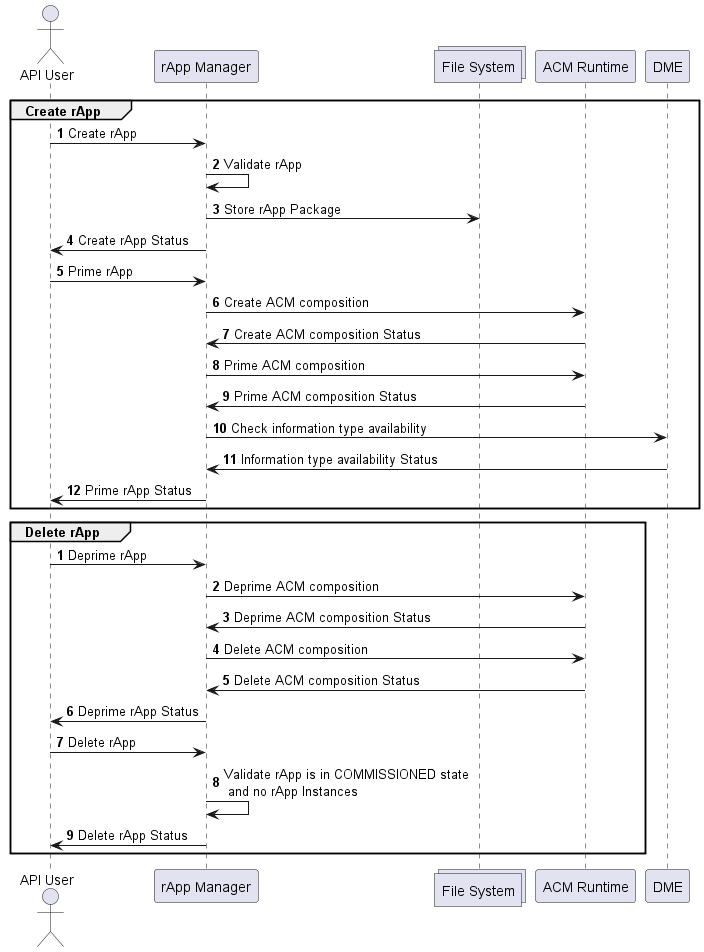
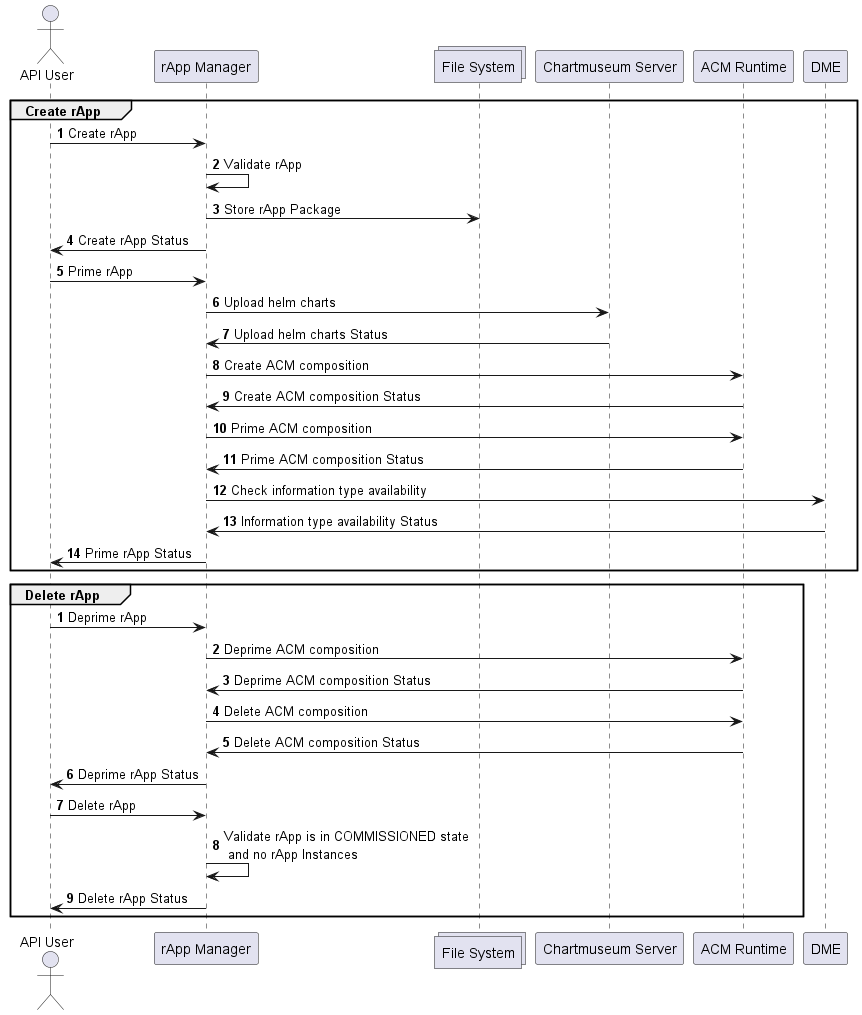
Update the env variable and documentation
Env variable for chart museum and documentation updated.

Issue-ID: NONRTRIC-984

diff --git a/docs/installation-guide.rst b/docs/installation-guide.rst
@@ -1,6 +1,6 @@
 .. This work is licensed under a Creative Commons Attribution 4.0 International License.
 .. http://creativecommons.org/licenses/by/4.0
-.. Copyright (C) 2023 OpenInfra Foundation Europe. All rights reserved.
+.. Copyright (C) 2023-2024 OpenInfra Foundation Europe. All rights reserved.
 
 Installation Guide
 ==================
@@ -37,9 +37,14 @@ In case some of the installation is already setup or not set by the installation
 +--------------------+--------------------------------------------+----------------------------------------------+
 | **Variable Name**  | **Description**                            | **Default Value**                            |
 +--------------------+--------------------------------------------+----------------------------------------------+
-| CHART_REPO_HOST    | Address of the chart repository.           | \http://IP_ADDRESS:8879/charts               |
+| CHART_REPO_GET_URI | URI to get the charts.                     | \http://IP_ADDRESS:8879/charts               |
 |                    |                                            |                                              |
-|                    | It will be used by Kubernetes participant. | IP_ADDRESS: IP of the host in which          |
+|                    | It will be used by Kubernetes participant  | IP_ADDRESS: IP of the host in which          |
+|                    | and sample rApp generator                  | the installation scripts are running.        |
++--------------------+--------------------------------------------+----------------------------------------------+
+| CHART_REPO_POST_URI| URI to upload the charts.                  | \http://IP_ADDRESS:8879/charts/api/charts    |
+|                    |                                            |                                              |
+|                    | It will be used by sample rApp generator   | IP_ADDRESS: IP of the host in which          |
 |                    |                                            | the installation scripts are running.        |
 +--------------------+--------------------------------------------+----------------------------------------------+
 | A1PMS_HOST         | Address of the A1PMS.                      | \http://policymanagementservice.nonrtric:9080|
